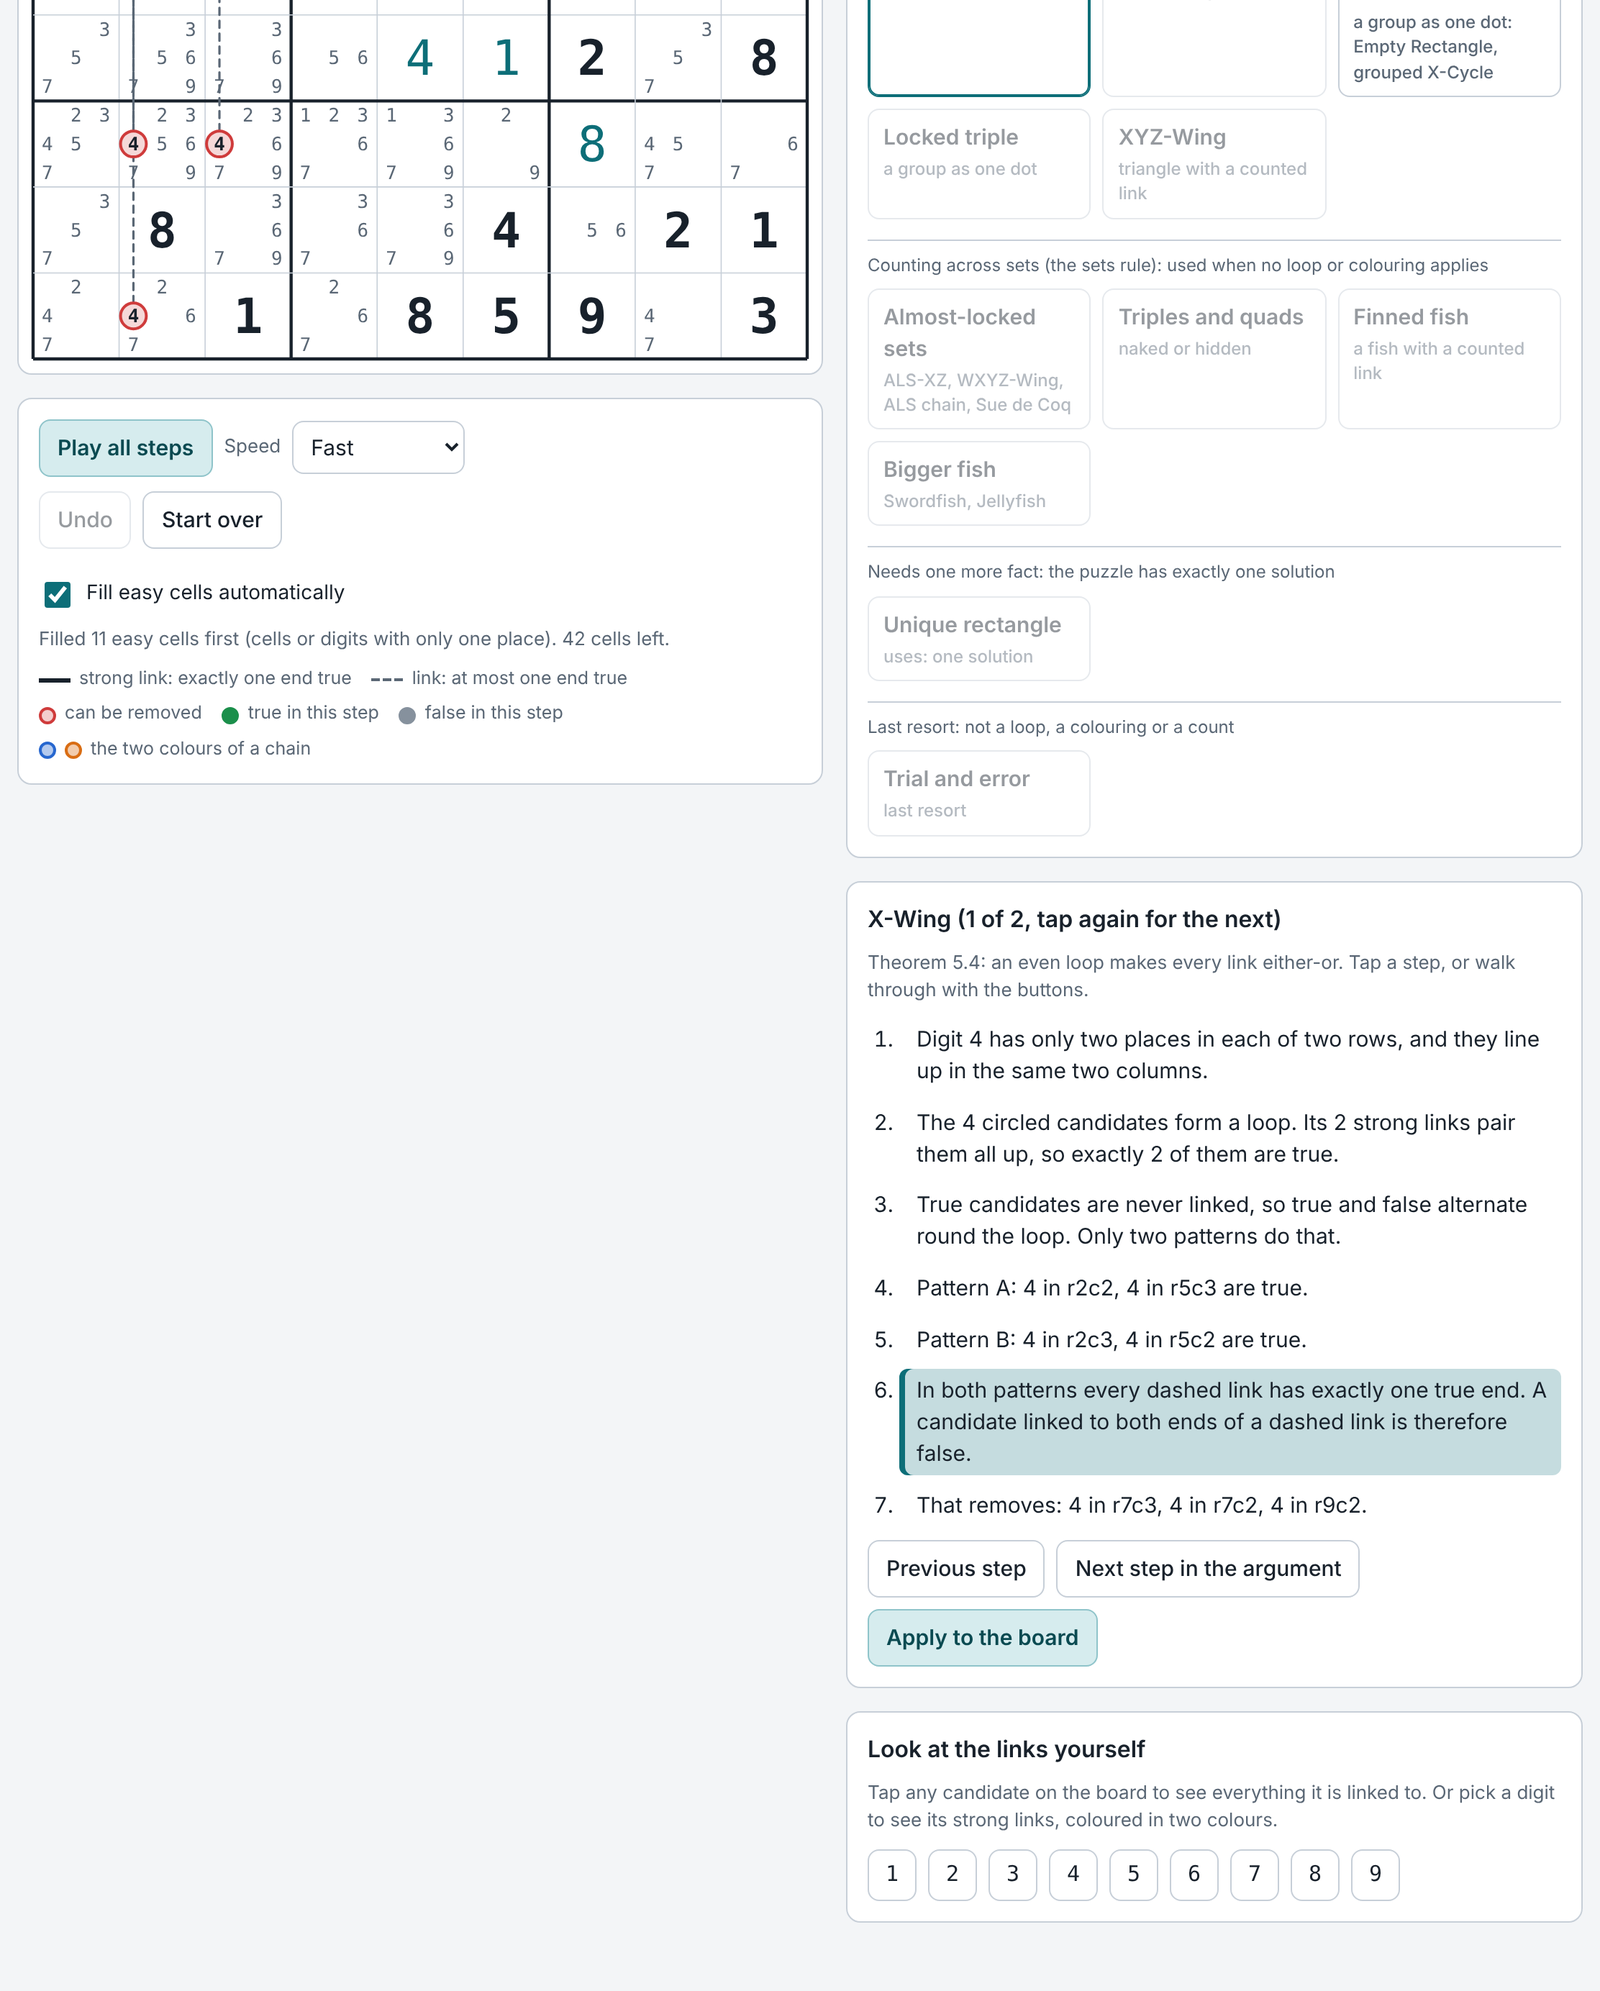
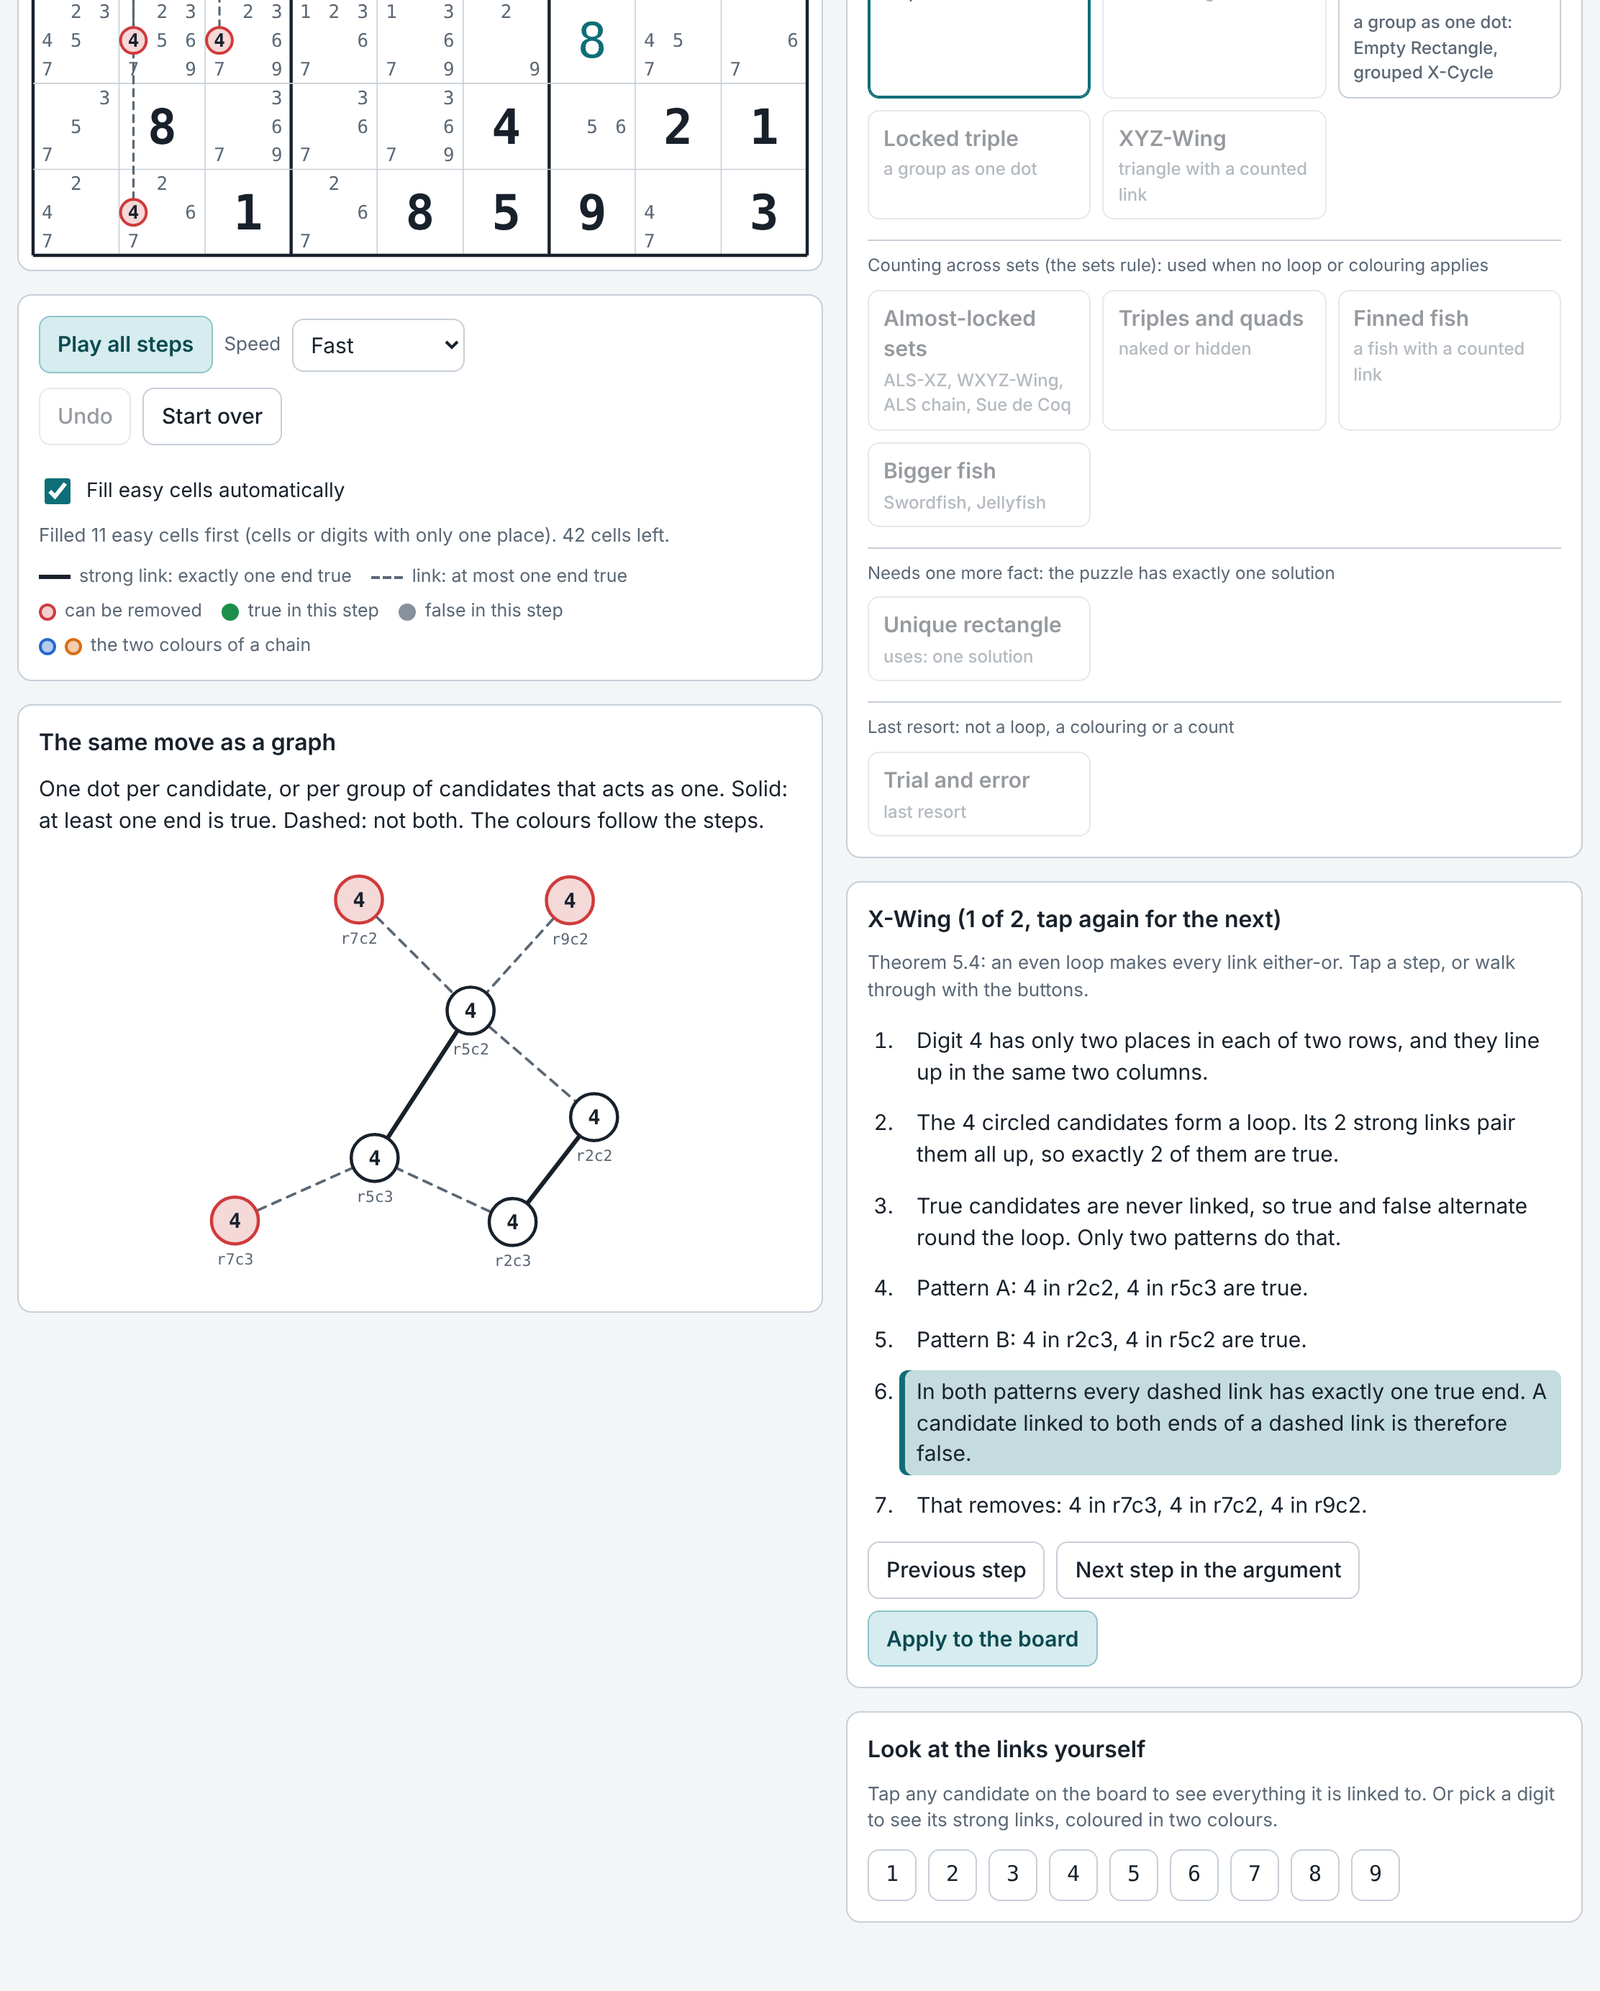
Graph view: below the play controls; no edge on top of another
An edge that would lie along another edge, or run straight through a
dot, is bowed to the freer side. A test checks every graph for both.
The left column is no longer pinned on wide screens, since it is now
taller than most windows.

Claude-Session: https://claude.ai/code/session_0161PMRBv2Fxor83Lofabj9S

diff --git a/index.html b/index.html
@@ -41,12 +41,11 @@ p { margin: 0; }
   .cols, .cols > .stack { display: contents; }
   .board { position: sticky; top: 0; z-index: 5; max-width: 460px; width: 100%; align-self: center; box-shadow: 0 6px 14px -10px var(--ink); }
 }
-@media (min-width: 900px) { .cols > .stack:first-child { position: sticky; top: 16px; } }
 #graph { display: block; width: 100%; height: auto; }
 #graphcard[hidden] { display: none; }
 @media (max-width: 899px) {
-  /* phone: board, then its graph, then the controls */
-  .cols .card { order: 4; } .cols .board { order: 1; } #graphcard { order: 2; } .cols section[aria-label="Moves"] { order: 3; }
+  /* phone: board, then the controls, then the graph */
+  .cols .card { order: 4; } .cols .board { order: 1; } .cols section[aria-label="Moves"] { order: 2; } #graphcard { order: 3; }
 }
 .row { display: flex; flex-wrap: wrap; gap: 8px; align-items: center; }
 label { font-size: 13px; color: var(--muted); }
@@ -163,15 +162,14 @@ svg .landing { animation: landing var(--dur, 1100ms) ease-in-out; }
           <span><i class="dot a"></i><i class="dot b"></i>the two colours of a chain</span>
         </div>
       </section>
-    </div>
-
-    <div class="stack">
-
       <section class="card" id="graphcard" aria-label="The move as a graph">
         <h2>The same move as a graph</h2>
         <p class="sub" id="graphnote">One dot per candidate, or per group of candidates that acts as one. Solid: at least one end is true. Dashed: not both. The colours follow the steps.</p>
         <svg id="graph" viewBox="0 0 520 300" role="img" aria-label="The current move drawn as a graph"></svg>
       </section>
+    </div>
+
+    <div class="stack">
 
       <section class="card" aria-label="Techniques">
         <h2>Techniques available now</h2>
@@ -1370,10 +1368,23 @@ svg .landing { animation: landing var(--dur, 1100ms) ease-in-out; }
       if (res.wrapClass !== undefined && view.step === null) kind = role === (res.wrapClass === 0 ? 'k0' : 'k1') ? 'elim' : 't';
       return kind;
     };
-    var line = function (a, b, style) { var dx = b.x - a.x, dy = b.y - a.y, len = Math.sqrt(dx * dx + dy * dy) || 1, ra = a.group ? 22 : 17, rb = b.group ? 22 : 17;
-      return '<line x1="' + (a.x + dx / len * ra).toFixed(1) + '" y1="' + (a.y + dy / len * ra).toFixed(1) + '" x2="' + (b.x - dx / len * rb).toFixed(1) + '" y2="' + (b.y - dy / len * rb).toFixed(1) + '" ' + style + ' stroke-linecap="round"/>'; };
+    /* An edge is straight unless that would put it on top of another edge or through a dot; then it bows to the freer side. */
+    var laid = [];
+    var line = function (a, b, style) {
+      var dx = b.x - a.x, dy = b.y - a.y, len = Math.sqrt(dx * dx + dy * dy) || 1, ra = a.group ? 22 : 17, rb = b.group ? 22 : 17;
+      var along = function (p) { return ((p.x - a.x) * dx + (p.y - a.y) * dy) / len; }, off = function (p) { return ((p.x - a.x) * dy - (p.y - a.y) * dx) / len; };
+      var blocked = g.nodes.some(function (m) { return m !== a && m !== b && along(m) > 8 && along(m) < len - 8 && Math.abs(off(m)) < 20; })
+        || laid.some(function (o) { if (Math.abs(off(o.p)) > 6 || Math.abs(off(o.q)) > 6) return false; var t1 = along(o.p), t2 = along(o.q); return Math.min(len, Math.max(t1, t2)) - Math.max(0, Math.min(t1, t2)) > 12; });
+      laid.push({ p: a, q: b });
+      var x1 = a.x + dx / len * ra, y1 = a.y + dy / len * ra, x2 = b.x - dx / len * rb, y2 = b.y - dy / len * rb;
+      if (!blocked) return '<line x1="' + x1.toFixed(1) + '" y1="' + y1.toFixed(1) + '" x2="' + x2.toFixed(1) + '" y2="' + y2.toFixed(1) + '" ' + style + ' stroke-linecap="round"/>';
+      var bow = Math.min(46, 26 + len * 0.08), mx = (a.x + b.x) / 2, my = (a.y + b.y) / 2;
+      var room = function (sgn) { var px = mx + dy / len * bow * sgn * 0.5, py = my - dx / len * bow * sgn * 0.5, best = 1e9; g.nodes.forEach(function (m) { if (m !== a && m !== b) best = Math.min(best, Math.sqrt((m.x - px) * (m.x - px) + (m.y - py) * (m.y - py))); }); return best; };
+      var sgn = room(1) >= room(-1) ? 1 : -1;
+      return '<path d="M' + x1.toFixed(1) + ' ' + y1.toFixed(1) + ' Q' + (mx + dy / len * bow * sgn).toFixed(1) + ' ' + (my - dx / len * bow * sgn).toFixed(1) + ' ' + x2.toFixed(1) + ' ' + y2.toFixed(1) + '" fill="none" ' + style + ' stroke-linecap="round"/>';
+    };
     g.edges.forEach(function (e) { s += line(e.a, e.b, e.strong ? 'stroke="var(--ink)" stroke-width="3"' : 'stroke="var(--muted)" stroke-width="1.8" stroke-dasharray="6 5"'); });
-    if (step && step.clash && g.owner[step.clash[0]] && g.owner[step.clash[1]] && g.owner[step.clash[0]] !== g.owner[step.clash[1]]) s += line(g.owner[step.clash[0]], g.owner[step.clash[1]], 'stroke="var(--out)" stroke-width="4"');
+    if (step && step.clash && g.owner[step.clash[0]] && g.owner[step.clash[1]] && g.owner[step.clash[0]] !== g.owner[step.clash[1]]) { laid = []; s += line(g.owner[step.clash[0]], g.owner[step.clash[1]], 'stroke="var(--out)" stroke-width="4"'); }
     g.nodes.forEach(function (n) {
       var c = colour[kindOf(n)] || colour.loop, r = n.group ? 21 : 16, out = n.ids.some(function (id) { return going[id]; });
       var body = (n.group ? '<circle cx="' + n.x.toFixed(1) + '" cy="' + n.y.toFixed(1) + '" r="' + (r + 4) + '" fill="none" stroke="' + c[0] + '" stroke-width="1.5"/>' : '')

diff --git a/src/index.src.html b/src/index.src.html
@@ -41,12 +41,11 @@ p { margin: 0; }
   .cols, .cols > .stack { display: contents; }
   .board { position: sticky; top: 0; z-index: 5; max-width: 460px; width: 100%; align-self: center; box-shadow: 0 6px 14px -10px var(--ink); }
 }
-@media (min-width: 900px) { .cols > .stack:first-child { position: sticky; top: 16px; } }
 #graph { display: block; width: 100%; height: auto; }
 #graphcard[hidden] { display: none; }
 @media (max-width: 899px) {
-  /* phone: board, then its graph, then the controls */
-  .cols .card { order: 4; } .cols .board { order: 1; } #graphcard { order: 2; } .cols section[aria-label="Moves"] { order: 3; }
+  /* phone: board, then the controls, then the graph */
+  .cols .card { order: 4; } .cols .board { order: 1; } .cols section[aria-label="Moves"] { order: 2; } #graphcard { order: 3; }
 }
 .row { display: flex; flex-wrap: wrap; gap: 8px; align-items: center; }
 label { font-size: 13px; color: var(--muted); }
@@ -163,15 +162,14 @@ svg .landing { animation: landing var(--dur, 1100ms) ease-in-out; }
           <span><i class="dot a"></i><i class="dot b"></i>the two colours of a chain</span>
         </div>
       </section>
-    </div>
-
-    <div class="stack">
-
       <section class="card" id="graphcard" aria-label="The move as a graph">
         <h2>The same move as a graph</h2>
         <p class="sub" id="graphnote">One dot per candidate, or per group of candidates that acts as one. Solid: at least one end is true. Dashed: not both. The colours follow the steps.</p>
         <svg id="graph" viewBox="0 0 520 300" role="img" aria-label="The current move drawn as a graph"></svg>
       </section>
+    </div>
+
+    <div class="stack">
 
       <section class="card" aria-label="Techniques">
         <h2>Techniques available now</h2>
@@ -485,10 +483,23 @@ svg .landing { animation: landing var(--dur, 1100ms) ease-in-out; }
       if (res.wrapClass !== undefined && view.step === null) kind = role === (res.wrapClass === 0 ? 'k0' : 'k1') ? 'elim' : 't';
       return kind;
     };
-    var line = function (a, b, style) { var dx = b.x - a.x, dy = b.y - a.y, len = Math.sqrt(dx * dx + dy * dy) || 1, ra = a.group ? 22 : 17, rb = b.group ? 22 : 17;
-      return '<line x1="' + (a.x + dx / len * ra).toFixed(1) + '" y1="' + (a.y + dy / len * ra).toFixed(1) + '" x2="' + (b.x - dx / len * rb).toFixed(1) + '" y2="' + (b.y - dy / len * rb).toFixed(1) + '" ' + style + ' stroke-linecap="round"/>'; };
+    /* An edge is straight unless that would put it on top of another edge or through a dot; then it bows to the freer side. */
+    var laid = [];
+    var line = function (a, b, style) {
+      var dx = b.x - a.x, dy = b.y - a.y, len = Math.sqrt(dx * dx + dy * dy) || 1, ra = a.group ? 22 : 17, rb = b.group ? 22 : 17;
+      var along = function (p) { return ((p.x - a.x) * dx + (p.y - a.y) * dy) / len; }, off = function (p) { return ((p.x - a.x) * dy - (p.y - a.y) * dx) / len; };
+      var blocked = g.nodes.some(function (m) { return m !== a && m !== b && along(m) > 8 && along(m) < len - 8 && Math.abs(off(m)) < 20; })
+        || laid.some(function (o) { if (Math.abs(off(o.p)) > 6 || Math.abs(off(o.q)) > 6) return false; var t1 = along(o.p), t2 = along(o.q); return Math.min(len, Math.max(t1, t2)) - Math.max(0, Math.min(t1, t2)) > 12; });
+      laid.push({ p: a, q: b });
+      var x1 = a.x + dx / len * ra, y1 = a.y + dy / len * ra, x2 = b.x - dx / len * rb, y2 = b.y - dy / len * rb;
+      if (!blocked) return '<line x1="' + x1.toFixed(1) + '" y1="' + y1.toFixed(1) + '" x2="' + x2.toFixed(1) + '" y2="' + y2.toFixed(1) + '" ' + style + ' stroke-linecap="round"/>';
+      var bow = Math.min(46, 26 + len * 0.08), mx = (a.x + b.x) / 2, my = (a.y + b.y) / 2;
+      var room = function (sgn) { var px = mx + dy / len * bow * sgn * 0.5, py = my - dx / len * bow * sgn * 0.5, best = 1e9; g.nodes.forEach(function (m) { if (m !== a && m !== b) best = Math.min(best, Math.sqrt((m.x - px) * (m.x - px) + (m.y - py) * (m.y - py))); }); return best; };
+      var sgn = room(1) >= room(-1) ? 1 : -1;
+      return '<path d="M' + x1.toFixed(1) + ' ' + y1.toFixed(1) + ' Q' + (mx + dy / len * bow * sgn).toFixed(1) + ' ' + (my - dx / len * bow * sgn).toFixed(1) + ' ' + x2.toFixed(1) + ' ' + y2.toFixed(1) + '" fill="none" ' + style + ' stroke-linecap="round"/>';
+    };
     g.edges.forEach(function (e) { s += line(e.a, e.b, e.strong ? 'stroke="var(--ink)" stroke-width="3"' : 'stroke="var(--muted)" stroke-width="1.8" stroke-dasharray="6 5"'); });
-    if (step && step.clash && g.owner[step.clash[0]] && g.owner[step.clash[1]] && g.owner[step.clash[0]] !== g.owner[step.clash[1]]) s += line(g.owner[step.clash[0]], g.owner[step.clash[1]], 'stroke="var(--out)" stroke-width="4"');
+    if (step && step.clash && g.owner[step.clash[0]] && g.owner[step.clash[1]] && g.owner[step.clash[0]] !== g.owner[step.clash[1]]) { laid = []; s += line(g.owner[step.clash[0]], g.owner[step.clash[1]], 'stroke="var(--out)" stroke-width="4"'); }
     g.nodes.forEach(function (n) {
       var c = colour[kindOf(n)] || colour.loop, r = n.group ? 21 : 16, out = n.ids.some(function (id) { return going[id]; });
       var body = (n.group ? '<circle cx="' + n.x.toFixed(1) + '" cy="' + n.y.toFixed(1) + '" r="' + (r + 4) + '" fill="none" stroke="' + c[0] + '" stroke-width="1.5"/>' : '')

diff --git a/test/smoke.js b/test/smoke.js
@@ -272,6 +272,13 @@ const loadSample = i => { sel.value = String(i); sel.dispatchEvent(new dom.windo
     for (let a = 0; a < pts.length; a++) for (let b = a + 1; b < pts.length; b++) closest = Math.min(closest, Math.hypot(pts[a][0] - pts[b][0], pts[a][1] - pts[b][1]));
     if (closest < 46) throw new Error(where + ': two dots of the graph view overlap (' + closest.toFixed(0) + ' apart)');
     if (pts.some(q => q[0] < 15 || q[0] > 505 || q[1] < 15 || q[1] > H - 15)) throw new Error(where + ': a dot of the graph view is off the picture');
+    // no straight edge may lie on top of another straight edge, or run through a dot that is not one of its ends
+    const segs = [...$('graph').querySelectorAll('line:not(.strike)')].map(l => ['x1', 'y1', 'x2', 'y2'].map(k => +l.getAttribute(k)));
+    const offLine = (s, x, y) => { const dx = s[2] - s[0], dy = s[3] - s[1], len = Math.hypot(dx, dy) || 1; return [((x - s[0]) * dx + (y - s[1]) * dy) / len, Math.abs((x - s[0]) * dy - (y - s[1]) * dx) / len, len]; };
+    for (let a = 0; a < segs.length; a++) {
+      for (const q of pts) { const [t, d, len] = offLine(segs[a], q[0], q[1]); if (t > 12 && t < len - 12 && d < 12) throw new Error(where + ': an edge of the graph view runs straight through a dot'); }
+      for (let b = a + 1; b < segs.length; b++) { const [t1, d1, len] = offLine(segs[a], segs[b][0], segs[b][1]), [t2, d2] = offLine(segs[a], segs[b][2], segs[b][3]); if (d1 < 3 && d2 < 3 && Math.min(len, Math.max(t1, t2)) - Math.max(0, Math.min(t1, t2)) > 14) throw new Error(where + ': two edges of the graph view lie on top of each other'); }
+    }
     graphsSeen++;
   };
   for (const o of [...sel.options].filter(x => /^\d+$/.test(x.value))) {

diff --git a/README.md b/README.md
@@ -63,7 +63,7 @@ Open `index.html` directly; it needs no server and no build step.
 - Only proper sudokus load: no digit twice in a row, column or box, and exactly one solution. Anything else is refused with the reason.
 - Tap a technique to see a move of that kind. Each move lists the chain of forced steps behind it, and the board marks candidates true or false as you walk through. **Apply to the board** carries it out.
 - **Play all steps** solves the puzzle by itself, one move after another. Each candidate that goes is circled in red, struck through and then fades from the board. Choose a speed, or pick *Moves only* to skip the reasoning and just watch the loops and removals. Tap the board to pause.
-- **The same move as a graph**: next to the board (below it on a phone) the current move is redrawn as a plain graph, with the dots spread out and a group shown as one dot. It carries the same colours as the board and steps along with it, so the move reads as what it is: a two-colouring problem.
+- **The same move as a graph**: below the play controls the current move is redrawn as a plain graph, with the dots spread out and a group shown as one dot. It carries the same colours as the board and steps along with it, so the move reads as what it is: a two-colouring problem.
 - Tap any candidate on the board to see everything it is linked to. Pick a digit to see its strong links coloured in two colours.
 
 Techniques it finds: locked pair, naked pair, hidden pair, X-Wing, Skyscraper, Two-String Kite, XY-Wing, Simple Colouring, one-digit odd loops (Turbot Fish, X-Cycle), 3D Medusa, and general alternating chains (which include W-Wing and XY-Chain).
